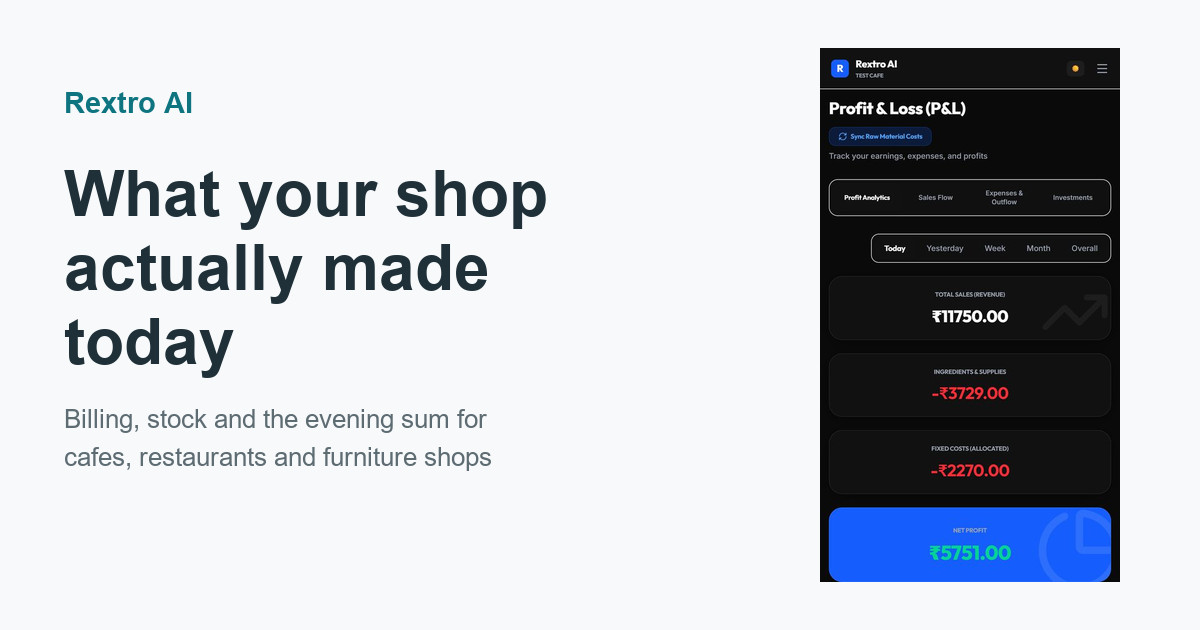
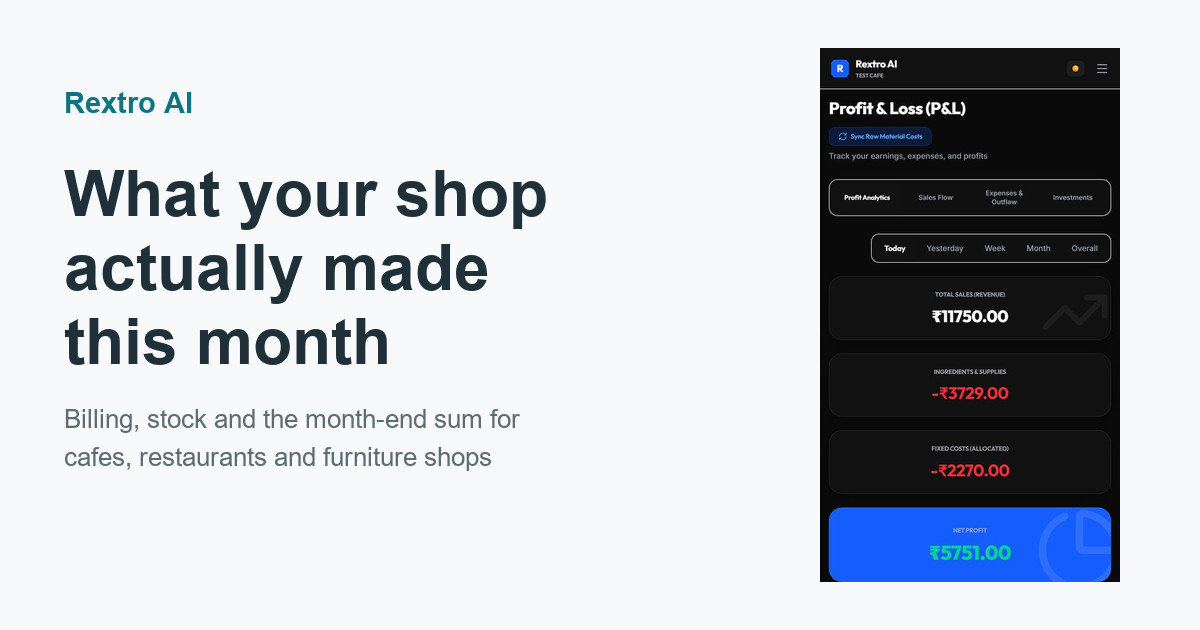
feat(site): the headline sum is a month, not an evening
A month is the figure a shop owner weighs 499 rupees against, so the hero
counts one. All three trades move with it:

  cafe         3,52,500 - 1,11,870 - 68,100  = 1,72,530
  restaurant   9,60,000 - 3,26,400 - 1,97,000 = 4,36,600
  furniture    7,20,000 - 4,46,000 - 92,000  = 1,82,000

The cafe column is still the real evening from the Profit & Loss screenshot
further down, taken over thirty days, so the screen and the page still agree.
The note now also says the app does the sum every night, which is the point
the founder's letter makes: the problem was finding out at the end of the
month, and that has not changed.

"This month" is a far shorter line than "Today you made", which opened a void
over a third of the first screen wide. Rather than leave it, the three controls
move up beside the headline above 1100px, so the one live thing on the page is
part of the first impression instead of below it. Under 1100px they stack as
before.

Slider ranges, steps and the share card follow. Every default lands exactly on
its step, so nothing snaps to a figure that does not add up.

0 FAIL from the linter and the inspector at 1440 / 768 / 390, on all three
trades, and the hero-void warning is gone.

Changed region(s): [[0.0617, 0.5127, 0.3392, 0.6032], [0.2467, 0.6333, 0.4317, 0.6937]]

diff --git a/index.html b/index.html
@@ -4,7 +4,7 @@
 <meta charset="UTF-8">
 <meta name="viewport" content="width=device-width, initial-scale=1.0">
 <title>Billing software for cafes, restaurants and furniture shops | Rextro AI</title>
-<meta name="description" content="Billing, stock and the day's real profit on the phone your staff already has. No machine to buy, no contract. Rs 499 a month for a cafe or restaurant, first month free, set up in person in India.">
+<meta name="description" content="Billing, stock and the month's real profit on the phone your staff already has. No machine to buy, no contract. Rs 499 a month for a cafe or restaurant, first month free, set up in person in India.">
 <link rel="canonical" href="https://rextro-ai-delta.vercel.app/">
 <meta name="robots" content="index,follow,max-image-preview:large,max-snippet:-1">
 <meta name="author" content="Aarav Walia">
@@ -12,14 +12,14 @@
 <meta property="og:site_name" content="Rextro AI">
 <meta property="og:locale" content="en_IN">
 <meta property="og:url" content="https://rextro-ai-delta.vercel.app/">
-<meta property="og:title" content="What your shop actually made today | Rextro AI">
+<meta property="og:title" content="What your shop actually made this month | Rextro AI">
 <meta property="og:description" content="Billing, stock and the evening sum for cafes, restaurants and furniture shops. Your till shows what you sold. This shows what you kept.">
 <meta property="og:image" content="https://rextro-ai-delta.vercel.app/share-card.jpg">
 <meta property="og:image:width" content="1200">
 <meta property="og:image:height" content="630">
 <meta property="og:image:alt" content="The Profit and Loss screen: total sales, ingredients, fixed costs and the net profit left over">
 <meta name="twitter:card" content="summary_large_image">
-<meta name="twitter:title" content="What your shop actually made today | Rextro AI">
+<meta name="twitter:title" content="What your shop actually made this month | Rextro AI">
 <meta name="twitter:description" content="Billing, stock and the evening sum for cafes, restaurants and furniture shops.">
 <meta name="twitter:image" content="https://rextro-ai-delta.vercel.app/share-card.jpg">
 <meta name="theme-color" content="#f7f9fa">
@@ -103,6 +103,12 @@ a:focus-visible,button:focus-visible,summary:focus-visible,input:focus-visible{o
 @media (min-width:900px){
   .hero-inner{padding-bottom:12px}
   .chips{grid-template-columns:repeat(3,1fr);gap:16px}
+}
+@media (min-width:1100px){
+  .hero-inner{display:grid;grid-template-columns:minmax(0,7fr) minmax(0,5fr);
+    gap:clamp(40px,5vw,80px);align-items:center}
+  .chips{grid-template-columns:1fr;gap:12px;margin:0}
+  .hero-do .small{margin-top:16px !important;max-width:38ch}
 }
 
 /* a real control from the product; data-ui keeps its own conventions */
@@ -360,9 +366,10 @@ details .ans{padding:0 24px 22px;font-size:var(--step-body);max-width:52ch}
   <!-- HERO — controls on the sentence -->
   <header class="hero">
     <div class="wrap hero-inner">
+      <div class="hero-say">
       <h1>
-        <span class="ln"><b>Today you made</b></span>
-        <span class="ln"><b>&#8377;<span id="sum">5,751</span></b></span>
+        <span class="ln"><b>This month</b></span>
+        <span class="ln"><b>&#8377;<span id="sum">1,72,530</span></b></span>
       </h1>
       <p class="under" id="heroUnder">Not what you sold. What you kept, after everything that went out.</p>
 
@@ -379,22 +386,26 @@ details .ans{padding:0 24px 22px;font-size:var(--step-body);max-width:52ch}
         <a class="textlink" href="/demo">See the real app</a>
       </div>
 
+      </div>
+
+      <div class="hero-do">
       <div class="chips">
         <div class="chip" data-ui>
-          <label for="c1"><span id="l1">Total sales</span> <b>&#8377;<span id="v1">11,750</span></b></label>
-          <input id="c1" type="range" min="2000" max="60000" step="50" value="11750">
+          <label for="c1"><span id="l1">Sales this month</span> <b>&#8377;<span id="v1">3,52,500</span></b></label>
+          <input id="c1" type="range" min="50000" max="1500000" step="500" value="352500">
         </div>
         <div class="chip" data-ui>
-          <label for="c2"><span id="l2">Ingredients &amp; supplies</span> <b>&#8377;<span id="v2">3,729</span></b></label>
-          <input id="c2" type="range" min="0" max="24000" step="1" value="3729">
+          <label for="c2"><span id="l2">Ingredients &amp; supplies</span> <b>&#8377;<span id="v2">1,11,870</span></b></label>
+          <input id="c2" type="range" min="0" max="600000" step="10" value="111870">
         </div>
         <div class="chip" data-ui>
-          <label for="c3"><span id="l3">Fixed costs, allocated</span> <b>&#8377;<span id="v3">2,270</span></b></label>
-          <input id="c3" type="range" min="0" max="9000" step="10" value="2270">
+          <label for="c3"><span id="l3">Rent, salaries, power</span> <b>&#8377;<span id="v3">68,100</span></b></label>
+          <input id="c3" type="range" min="0" max="300000" step="100" value="68100">
         </div>
       </div>
-      <p class="small" id="chipNote" style="margin-top:20px;max-width:46ch">Those three figures are a real evening on my own
-        counter, and the screen that printed them is further down this page. Move any of them.</p>
+      <p class="small" id="chipNote" style="margin-top:20px;max-width:48ch">That is a real evening at my own counter over
+        thirty days. The app does the same sum every night as well, so you are never finding it out a month late.</p>
+      </div>
     </div>
   </header>
 
@@ -865,10 +876,10 @@ details .ans{padding:0 24px 22px;font-size:var(--step-body);max-width:52ch}
     cafe: {
       word: 'cafe',
       under: 'Not what you sold. What you kept, after everything that went out.',
-      l2: 'Ingredients &amp; supplies', l3: 'Fixed costs, allocated',
-      c1: [2000, 60000, 50, 11750], c2: [0, 24000, 1, 3729], c3: [0, 9000, 10, 2270],
-      note: 'Those three figures are a real evening on my own counter, and the screen that printed '
-          + 'them is further down this page. Move any of them.',
+      l1: 'Sales this month', l2: 'Ingredients &amp; supplies', l3: 'Rent, salaries, power',
+      c1: [50000, 1500000, 500, 352500], c2: [0, 600000, 10, 111870], c3: [0, 300000, 100, 68100],
+      note: 'That is a real evening at my own counter over thirty days. The app does the same sum '
+          + 'every night as well, so you are never finding it out a month late.',
       shots: 'Every picture below is the app itself, photographed off the screen it runs on.',
       ctaHead: 'Show me<br>your menu',
       ctaAfter: 'It goes to my WhatsApp. I reply the same day, usually within an hour, and the first '
@@ -878,10 +889,10 @@ details .ans{padding:0 24px 22px;font-size:var(--step-body);max-width:52ch}
     restaurant: {
       word: 'restaurant',
       under: 'Not what the tables spent. What you kept, after everything that went out.',
-      l2: 'Food &amp; supplies', l3: 'Rent, salaries, power',
-      c1: [5000, 200000, 100, 38400], c2: [0, 90000, 10, 13120], c3: [0, 30000, 50, 7900],
-      note: 'Set these to a normal evening in your place. The app does this sum for you every night, '
-          + 'by itself, from the bills your staff already rang up.',
+      l1: 'Sales this month', l2: 'Food &amp; supplies', l3: 'Rent, salaries, power',
+      c1: [100000, 4000000, 1000, 960000], c2: [0, 1800000, 100, 326400], c3: [0, 800000, 500, 197000],
+      note: 'Set these to a normal month in your place. The app does the sum every night as well, '
+          + 'from the bills your staff already rang up, so the month is never a surprise.',
       shots: 'Every picture below is the app itself, photographed off the screen it runs on.',
       ctaHead: 'Show me<br>your menu',
       ctaAfter: 'It goes to my WhatsApp. I reply the same day, usually within an hour, and the first '
@@ -891,10 +902,10 @@ details .ans{padding:0 24px 22px;font-size:var(--step-body);max-width:52ch}
     furniture: {
       word: 'furniture shop',
       under: 'Not what you sold. What you kept, after the pieces and after the month.',
-      l2: 'What the pieces cost you', l3: 'Rent, salaries, power',
-      c1: [5000, 400000, 500, 86000], c2: [0, 260000, 500, 52000], c3: [0, 40000, 100, 9400],
-      note: 'Set these to a normal day in your shop. One piece can be the whole day, and you still '
-          + 'want to know what is left at the bottom of it.',
+      l1: 'Sales this month', l2: 'What the pieces cost you', l3: 'Rent, salaries, power',
+      c1: [100000, 6000000, 1000, 720000], c2: [0, 4000000, 1000, 446000], c3: [0, 600000, 500, 92000],
+      note: 'Set these to a normal month in your shop. One piece can be a whole week, which is exactly '
+          + 'why the month is the number worth watching.',
       shots: 'Every picture below is the app itself, photographed in the cafe it was built for. The '
           + 'furniture build is these same screens with your pieces in them, and I am finishing it now.',
       ctaHead: 'Show me<br>your shop',
@@ -905,7 +916,8 @@ details .ans{padding:0 24px 22px;font-size:var(--step-body);max-width:52ch}
   };
 
   var trade = 'cafe';
-  var l2 = document.getElementById('l2'), l3 = document.getElementById('l3');
+  var l1 = document.getElementById('l1'), l2 = document.getElementById('l2'),
+      l3 = document.getElementById('l3');
   var heroUnder = document.getElementById('heroUnder'), chipNote = document.getElementById('chipNote');
   var shotsHead = document.getElementById('shotsHead');
   var ctaHead = document.getElementById('ctaHead'), ctaAfter = document.getElementById('ctaAfter');
@@ -924,7 +936,7 @@ details .ans{padding:0 24px 22px;font-size:var(--step-body);max-width:52ch}
     tradeBtns.forEach(function (b) { b.setAttribute('aria-pressed', String(b.dataset.trade === key)); });
 
     heroUnder.textContent = d.under;
-    l2.innerHTML = d.l2; l3.innerHTML = d.l3;
+    l1.innerHTML = d.l1; l2.innerHTML = d.l2; l3.innerHTML = d.l3;
     range(c1, d.c1); range(c2, d.c2); range(c3, d.c3);
     chipNote.textContent = d.note;
     shotsHead.textContent = d.shots;
